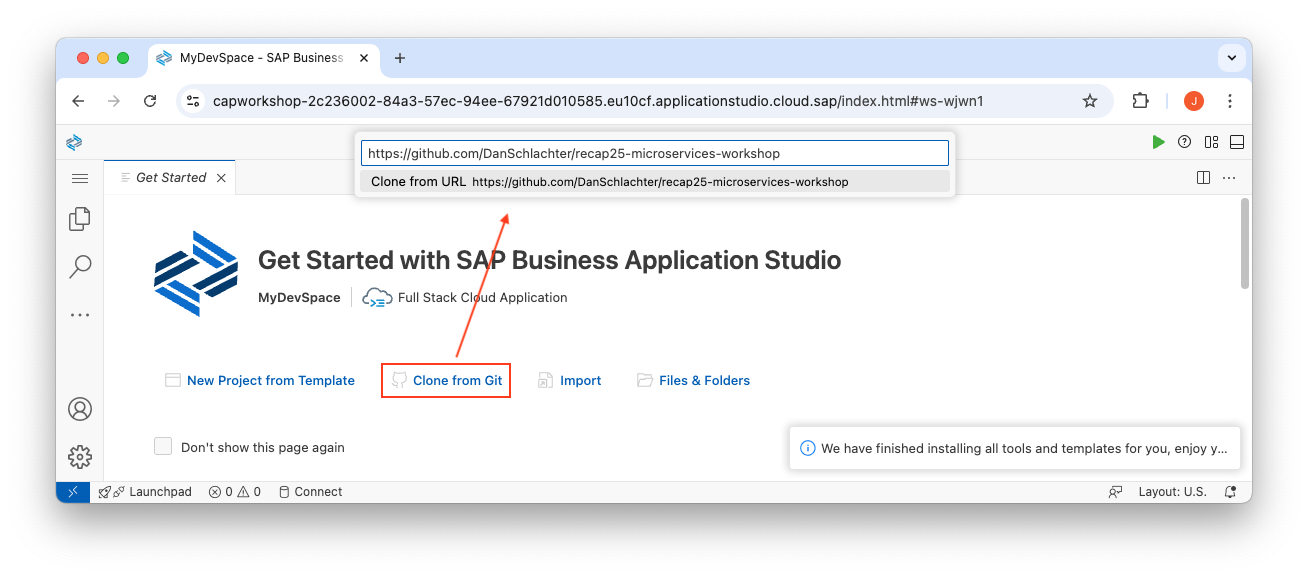
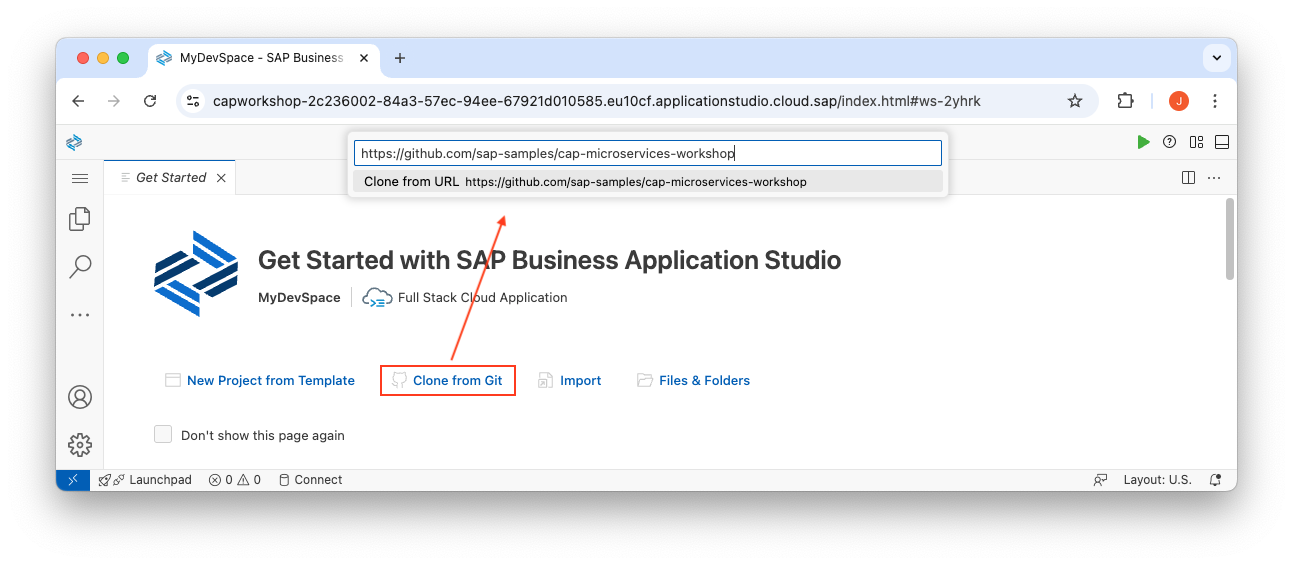
update repo location

diff --git a/exercises/00-setup/README.md b/exercises/00-setup/README.md
@@ -41,7 +41,7 @@ Choosing the "Full Stack Cloud Application" brings in some predefined extensions
 
 #### Clone the repository
 
-👉 Once the Dev Space is started and you're in it, use the "Clone from Git" option in the "Get Started" screen that appears, to clone this repository. In the subsequent prompt enter https://github.com/DanSchlachter/recap25-microservices-workshop as the URL.
+👉 Once the Dev Space is started and you're in it, use the "Clone from Git" option in the "Get Started" screen that appears, to clone this repository. In the subsequent prompt enter https://github.com/sap-samples/cap-microservices-workshop as the URL.
 
 ![clone the repository](assets/clone-repo.png)
 
@@ -54,8 +54,8 @@ _Follow the "Primary environment" section above if you want to use a Dev Space i
 👉 At a command prompt on your local machine, clone this repository into a directory of your choice, and then open VS Code, pointing to that newly cloned repository's directory:
 
 ```sh
-git clone https://github.com/DanSchlachter/recap25-microservices-workshop
-code recap25-microservices-workshop
+git clone https://github.com/sap-samples/cap-microservices-workshop
+code cap-microservices-workshop
 ```
 
 #### Reopen in Container

diff --git a/exercises/05-deploy/README.md b/exercises/05-deploy/README.md
@@ -100,7 +100,7 @@ cf deploy gen/mta.tar -f
 Deploying multi-target app archive gen/mta.tar in org capworkshop2c23600284a357ec94ee6 / space devspace030 as capworkshopuser+030@gmail.com...
 
 Uploading 1 files...
-  /workspaces/recap25-microservices-workshop/solution/gen/mta.tar
+  /workspaces/cap-microservices-workshop/solution/gen/mta.tar
  4s  14.63 MiB / 14.63 MiB [====================================================================================================================================] 100.00% 4s
 OK
 Operation ID: ba35814a-5bf1-11f0-ae69-eeee0a8ca141
